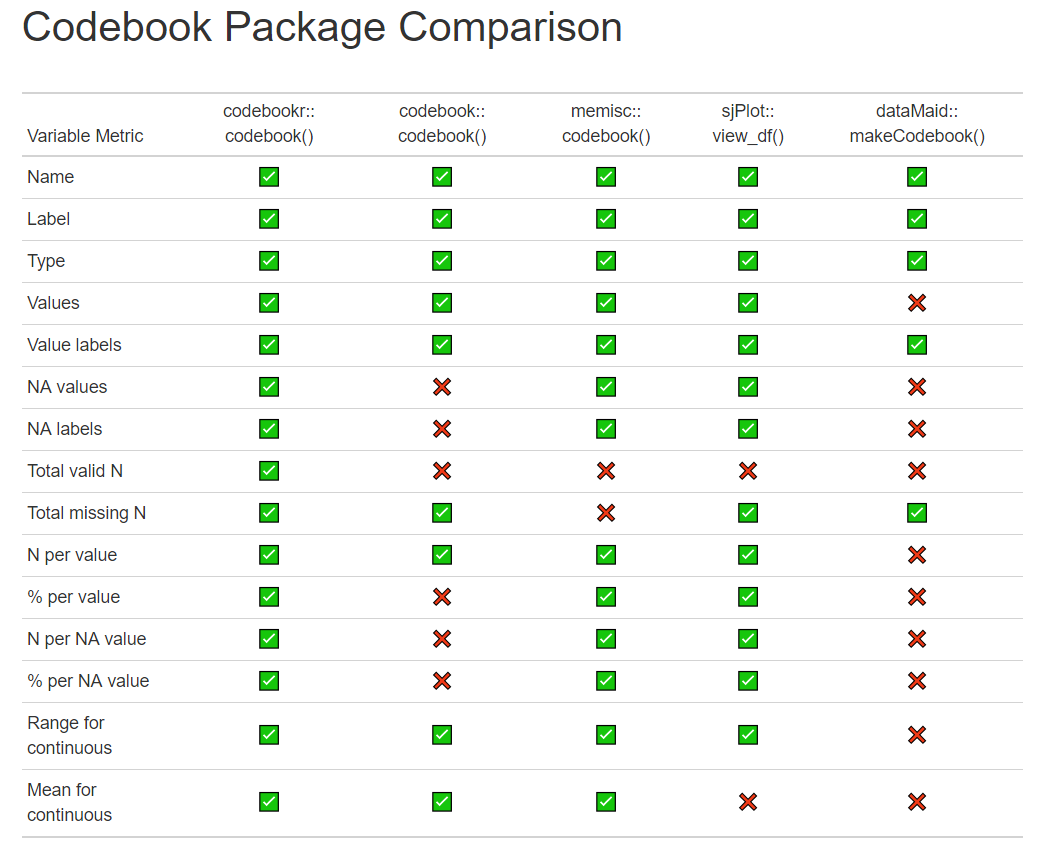
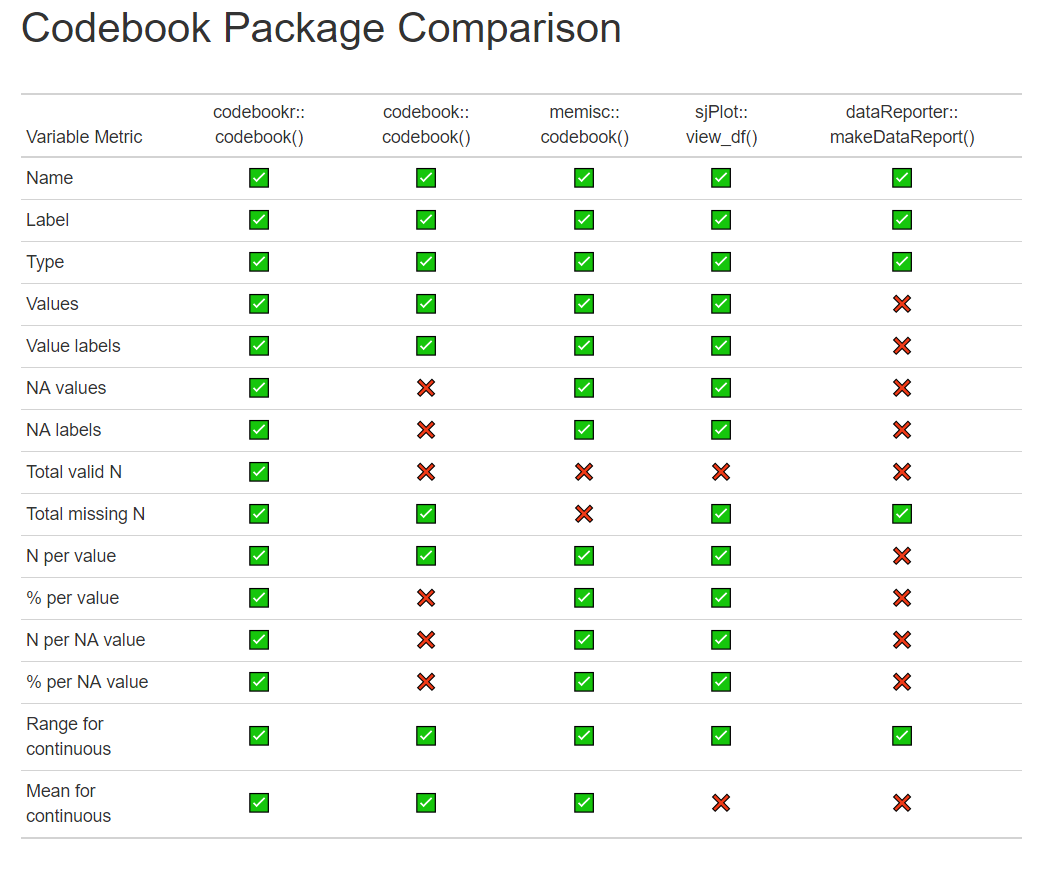
Update datamaid

diff --git a/index.html b/index.html
@@ -367,12 +367,12 @@ pre code {
 
 
 <p><br></p>
-<div id="bvgxoeneti" style="overflow-x:auto;overflow-y:auto;width:auto;height:auto;">
+<div id="noyrijzuid" style="overflow-x:auto;overflow-y:auto;width:auto;height:auto;">
 <style>html {
   font-family: -apple-system, BlinkMacSystemFont, 'Segoe UI', Roboto, Oxygen, Ubuntu, Cantarell, 'Helvetica Neue', 'Fira Sans', 'Droid Sans', Arial, sans-serif;
 }
 
-#bvgxoeneti .gt_table {
+#noyrijzuid .gt_table {
   display: table;
   border-collapse: collapse;
   margin-left: auto;
@@ -397,7 +397,7 @@ pre code {
   border-left-color: #D3D3D3;
 }
 
-#bvgxoeneti .gt_heading {
+#noyrijzuid .gt_heading {
   background-color: #FFFFFF;
   text-align: center;
   border-bottom-color: #FFFFFF;
@@ -409,7 +409,7 @@ pre code {
   border-right-color: #D3D3D3;
 }
 
-#bvgxoeneti .gt_title {
+#noyrijzuid .gt_title {
   color: #333333;
   font-size: 125%;
   font-weight: initial;
@@ -421,7 +421,7 @@ pre code {
   border-bottom-width: 0;
 }
 
-#bvgxoeneti .gt_subtitle {
+#noyrijzuid .gt_subtitle {
   color: #333333;
   font-size: 85%;
   font-weight: initial;
@@ -433,13 +433,13 @@ pre code {
   border-top-width: 0;
 }
 
-#bvgxoeneti .gt_bottom_border {
+#noyrijzuid .gt_bottom_border {
   border-bottom-style: solid;
   border-bottom-width: 2px;
   border-bottom-color: #D3D3D3;
 }
 
-#bvgxoeneti .gt_col_headings {
+#noyrijzuid .gt_col_headings {
   border-top-style: solid;
   border-top-width: 2px;
   border-top-color: #D3D3D3;
@@ -454,7 +454,7 @@ pre code {
   border-right-color: #D3D3D3;
 }
 
-#bvgxoeneti .gt_col_heading {
+#noyrijzuid .gt_col_heading {
   color: #333333;
   background-color: #FFFFFF;
   font-size: 100%;
@@ -474,7 +474,7 @@ pre code {
   overflow-x: hidden;
 }
 
-#bvgxoeneti .gt_column_spanner_outer {
+#noyrijzuid .gt_column_spanner_outer {
   color: #333333;
   background-color: #FFFFFF;
   font-size: 100%;
@@ -486,15 +486,15 @@ pre code {
   padding-right: 4px;
 }
 
-#bvgxoeneti .gt_column_spanner_outer:first-child {
+#noyrijzuid .gt_column_spanner_outer:first-child {
   padding-left: 0;
 }
 
-#bvgxoeneti .gt_column_spanner_outer:last-child {
+#noyrijzuid .gt_column_spanner_outer:last-child {
   padding-right: 0;
 }
 
-#bvgxoeneti .gt_column_spanner {
+#noyrijzuid .gt_column_spanner {
   border-bottom-style: solid;
   border-bottom-width: 2px;
   border-bottom-color: #D3D3D3;
@@ -506,7 +506,7 @@ pre code {
   width: 100%;
 }
 
-#bvgxoeneti .gt_group_heading {
+#noyrijzuid .gt_group_heading {
   padding-top: 8px;
   padding-bottom: 8px;
   padding-left: 5px;
@@ -531,7 +531,7 @@ pre code {
   vertical-align: middle;
 }
 
-#bvgxoeneti .gt_empty_group_heading {
+#noyrijzuid .gt_empty_group_heading {
   padding: 0.5px;
   color: #333333;
   background-color: #FFFFFF;
@@ -546,15 +546,15 @@ pre code {
   vertical-align: middle;
 }
 
-#bvgxoeneti .gt_from_md > :first-child {
+#noyrijzuid .gt_from_md > :first-child {
   margin-top: 0;
 }
 
-#bvgxoeneti .gt_from_md > :last-child {
+#noyrijzuid .gt_from_md > :last-child {
   margin-bottom: 0;
 }
 
-#bvgxoeneti .gt_row {
+#noyrijzuid .gt_row {
   padding-top: 8px;
   padding-bottom: 8px;
   padding-left: 5px;
@@ -573,7 +573,7 @@ pre code {
   overflow-x: hidden;
 }
 
-#bvgxoeneti .gt_stub {
+#noyrijzuid .gt_stub {
   color: #333333;
   background-color: #FFFFFF;
   font-size: 100%;
@@ -586,7 +586,7 @@ pre code {
   padding-right: 5px;
 }
 
-#bvgxoeneti .gt_stub_row_group {
+#noyrijzuid .gt_stub_row_group {
   color: #333333;
   background-color: #FFFFFF;
   font-size: 100%;
@@ -600,11 +600,11 @@ pre code {
   vertical-align: top;
 }
 
-#bvgxoeneti .gt_row_group_first td {
+#noyrijzuid .gt_row_group_first td {
   border-top-width: 2px;
 }
 
-#bvgxoeneti .gt_summary_row {
+#noyrijzuid .gt_summary_row {
   color: #333333;
   background-color: #FFFFFF;
   text-transform: inherit;
@@ -614,16 +614,16 @@ pre code {
   padding-right: 5px;
 }
 
-#bvgxoeneti .gt_first_summary_row {
+#noyrijzuid .gt_first_summary_row {
   border-top-style: solid;
   border-top-color: #D3D3D3;
 }
 
-#bvgxoeneti .gt_first_summary_row.thick {
+#noyrijzuid .gt_first_summary_row.thick {
   border-top-width: 2px;
 }
 
-#bvgxoeneti .gt_last_summary_row {
+#noyrijzuid .gt_last_summary_row {
   padding-top: 8px;
   padding-bottom: 8px;
   padding-left: 5px;
@@ -633,7 +633,7 @@ pre code {
   border-bottom-color: #D3D3D3;
 }
 
-#bvgxoeneti .gt_grand_summary_row {
+#noyrijzuid .gt_grand_summary_row {
   color: #333333;
   background-color: #FFFFFF;
   text-transform: inherit;
@@ -643,7 +643,7 @@ pre code {
   padding-right: 5px;
 }
 
-#bvgxoeneti .gt_first_grand_summary_row {
+#noyrijzuid .gt_first_grand_summary_row {
   padding-top: 8px;
   padding-bottom: 8px;
   padding-left: 5px;
@@ -653,11 +653,11 @@ pre code {
   border-top-color: #D3D3D3;
 }
 
-#bvgxoeneti .gt_striped {
+#noyrijzuid .gt_striped {
   background-color: rgba(128, 128, 128, 0.05);
 }
 
-#bvgxoeneti .gt_table_body {
+#noyrijzuid .gt_table_body {
   border-top-style: solid;
   border-top-width: 2px;
   border-top-color: #D3D3D3;
@@ -666,7 +666,7 @@ pre code {
   border-bottom-color: #D3D3D3;
 }
 
-#bvgxoeneti .gt_footnotes {
+#noyrijzuid .gt_footnotes {
   color: #333333;
   background-color: #FFFFFF;
   border-bottom-style: none;
@@ -680,7 +680,7 @@ pre code {
   border-right-color: #D3D3D3;
 }
 
-#bvgxoeneti .gt_footnote {
+#noyrijzuid .gt_footnote {
   margin: 0px;
   font-size: 90%;
   padding-left: 4px;
@@ -689,7 +689,7 @@ pre code {
   padding-right: 5px;
 }
 
-#bvgxoeneti .gt_sourcenotes {
+#noyrijzuid .gt_sourcenotes {
   color: #333333;
   background-color: #FFFFFF;
   border-bottom-style: none;
@@ -703,7 +703,7 @@ pre code {
   border-right-color: #D3D3D3;
 }
 
-#bvgxoeneti .gt_sourcenote {
+#noyrijzuid .gt_sourcenote {
   font-size: 90%;
   padding-top: 4px;
   padding-bottom: 4px;
@@ -711,36 +711,36 @@ pre code {
   padding-right: 5px;
 }
 
-#bvgxoeneti .gt_left {
+#noyrijzuid .gt_left {
   text-align: left;
 }
 
-#bvgxoeneti .gt_center {
+#noyrijzuid .gt_center {
   text-align: center;
 }
 
-#bvgxoeneti .gt_right {
+#noyrijzuid .gt_right {
   text-align: right;
   font-variant-numeric: tabular-nums;
 }
 
-#bvgxoeneti .gt_font_normal {
+#noyrijzuid .gt_font_normal {
   font-weight: normal;
 }
 
-#bvgxoeneti .gt_font_bold {
+#noyrijzuid .gt_font_bold {
   font-weight: bold;
 }
 
-#bvgxoeneti .gt_font_italic {
+#noyrijzuid .gt_font_italic {
   font-style: italic;
 }
 
-#bvgxoeneti .gt_super {
+#noyrijzuid .gt_super {
   font-size: 65%;
 }
 
-#bvgxoeneti .gt_two_val_uncert {
+#noyrijzuid .gt_two_val_uncert {
   display: inline-block;
   line-height: 1em;
   text-align: right;
@@ -749,31 +749,31 @@ pre code {
   margin-left: 0.1em;
 }
 
-#bvgxoeneti .gt_footnote_marks {
+#noyrijzuid .gt_footnote_marks {
   font-style: italic;
   font-weight: normal;
   font-size: 75%;
   vertical-align: 0.4em;
 }
 
-#bvgxoeneti .gt_asterisk {
+#noyrijzuid .gt_asterisk {
   font-size: 100%;
   vertical-align: 0;
 }
 
-#bvgxoeneti .gt_slash_mark {
+#noyrijzuid .gt_slash_mark {
   font-size: 0.7em;
   line-height: 0.7em;
   vertical-align: 0.15em;
 }
 
-#bvgxoeneti .gt_fraction_numerator {
+#noyrijzuid .gt_fraction_numerator {
   font-size: 0.6em;
   line-height: 0.6em;
   vertical-align: 0.45em;
 }
 
-#bvgxoeneti .gt_fraction_denominator {
+#noyrijzuid .gt_fraction_denominator {
   font-size: 0.6em;
   line-height: 0.6em;
   vertical-align: -0.05em;
@@ -795,8 +795,8 @@ codebook()</th>
 view_df()</th>
       <th class="gt_col_heading gt_columns_bottom_border gt_center" rowspan="1" colspan="1">labelled::
 generate_dictionary()</th>
-      <th class="gt_col_heading gt_columns_bottom_border gt_center" rowspan="1" colspan="1">dataMaid::
-makeCodebook()</th>
+      <th class="gt_col_heading gt_columns_bottom_border gt_center" rowspan="1" colspan="1">dataReporter::
+makeDataReport()</th>
       <th class="gt_col_heading gt_columns_bottom_border gt_center" rowspan="1" colspan="1">skimr::
 skim()</th>
       <th class="gt_col_heading gt_columns_bottom_border gt_center" rowspan="1" colspan="1">pointblank::
@@ -858,7 +858,7 @@ tbl_summary()</th>
 <td class="gt_row gt_center">✅</td>
 <td class="gt_row gt_center">✅</td>
 <td class="gt_row gt_center">✅</td>
-<td class="gt_row gt_center">✅</td>
+<td class="gt_row gt_center">❌</td>
 <td class="gt_row gt_center">❌</td>
 <td class="gt_row gt_center">❌</td>
 <td class="gt_row gt_center">❌</td>
@@ -957,7 +957,7 @@ tbl_summary()</th>
 <td class="gt_row gt_center">✅</td>
 <td class="gt_row gt_center">✅</td>
 <td class="gt_row gt_center">❌</td>
-<td class="gt_row gt_center">❌</td>
+<td class="gt_row gt_center">✅</td>
 <td class="gt_row gt_center">✅</td>
 <td class="gt_row gt_center">✅</td>
 <td class="gt_row gt_center">✅</td>
